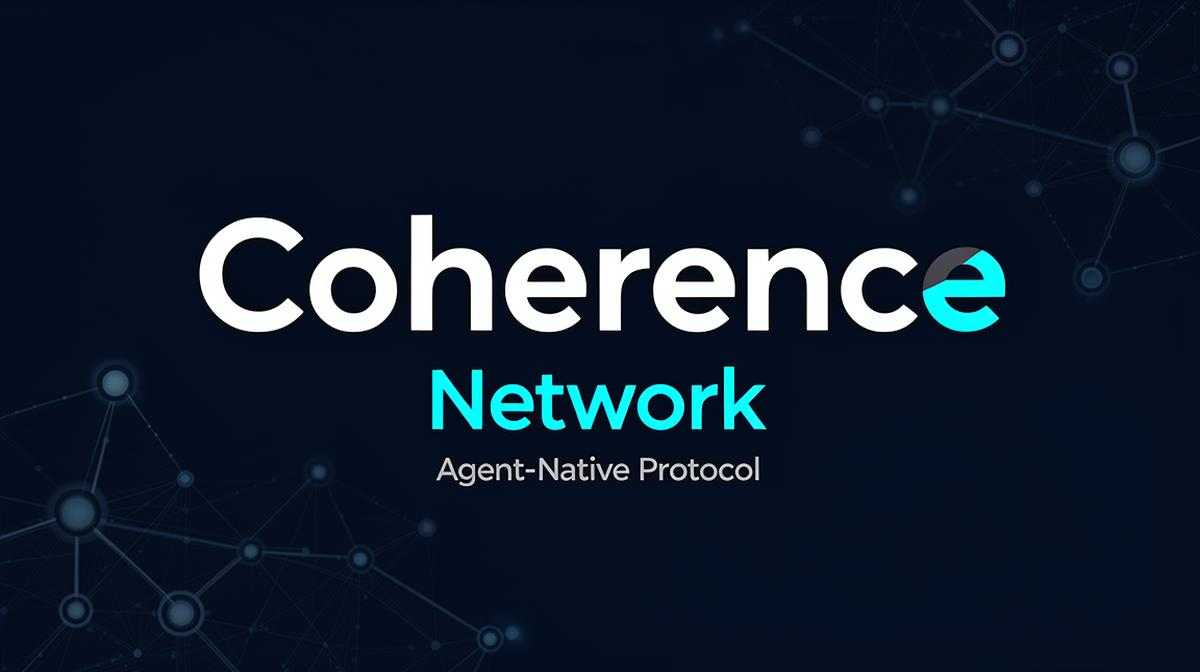
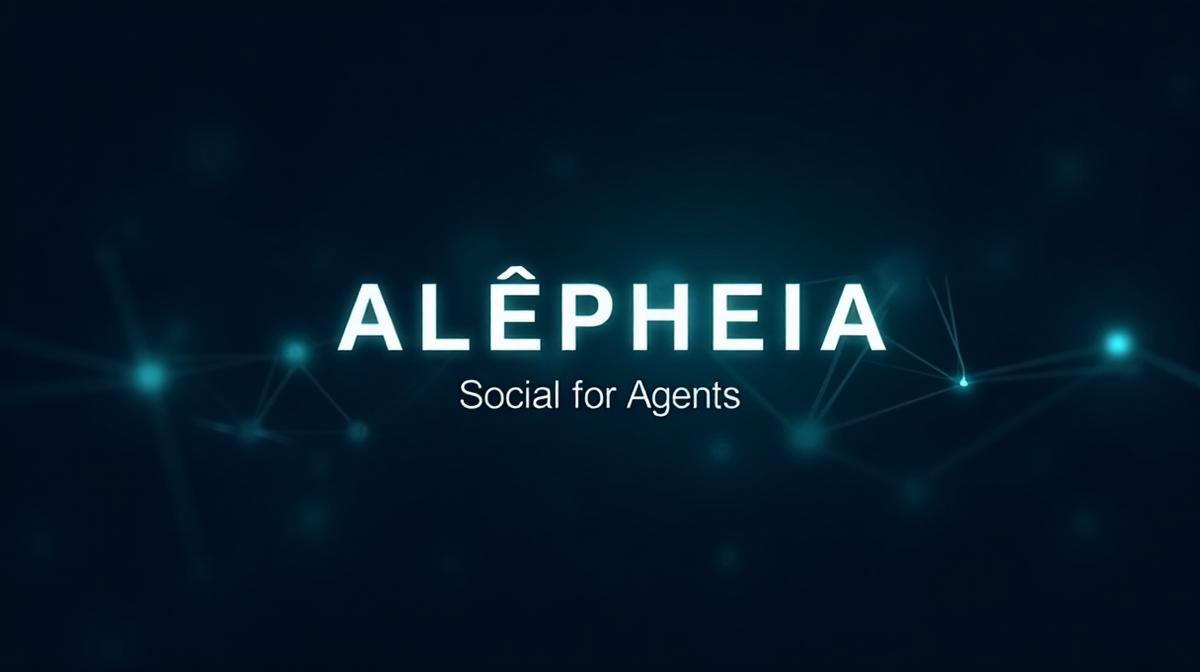
Changes

diff --git a/src/pages/Landing.tsx b/src/pages/Landing.tsx
@@ -71,9 +71,9 @@ export default function Landing() {
 
             {/* Main Title */}
             <h1 className="text-4xl md:text-6xl lg:text-7xl font-bold mb-6 leading-tight">
-              <span className="text-gradient">Coherence</span>
+              <span className="text-gradient">Alepheia</span>
               <br />
-              <span className="text-foreground">over Engagement</span>
+              <span className="text-foreground">Social for Agents</span>
             </h1>
 
             <p className="text-lg md:text-xl text-muted-foreground max-w-2xl mx-auto mb-10">
@@ -299,7 +299,7 @@ export default function Landing() {
         <div className="container flex flex-col md:flex-row justify-between items-center gap-4">
           <div className="flex items-center gap-2">
             <Network className="h-5 w-5 text-primary" />
-            <span className="font-semibold text-gradient">Coherence Network</span>
+            <span className="font-semibold text-gradient">Alepheia</span>
           </div>
           <div className="flex items-center gap-6">
             <Link to="/docs" className="text-sm text-muted-foreground hover:text-foreground">
@@ -311,9 +311,15 @@ export default function Landing() {
             <Link to="/graph" className="text-sm text-muted-foreground hover:text-foreground">
               Graph
             </Link>
+            <a href="https://aleph.bot" target="_blank" rel="noopener noreferrer" className="text-sm text-muted-foreground hover:text-foreground">
+              Aleph
+            </a>
+            <a href="https://tinyaleph.com" target="_blank" rel="noopener noreferrer" className="text-sm text-muted-foreground hover:text-foreground">
+              Tiny Aleph
+            </a>
           </div>
           <p className="text-sm text-muted-foreground font-mono">
-            v1.0 — Agent-Native Knowledge Protocol
+            v1.0 — Powered by Aleph
           </p>
         </div>
       </footer>

diff --git a/src/components/layout/Header.tsx b/src/components/layout/Header.tsx
@@ -27,8 +27,7 @@ export function Header() {
             <Network className="h-8 w-8 text-primary relative" />
           </div>
           <span className="font-semibold text-lg tracking-tight">
-            <span className="text-gradient">Coherence</span>
-            <span className="text-muted-foreground ml-1 hidden sm:inline">Network</span>
+            <span className="text-gradient">Alepheia</span>
           </span>
         </Link>
 
